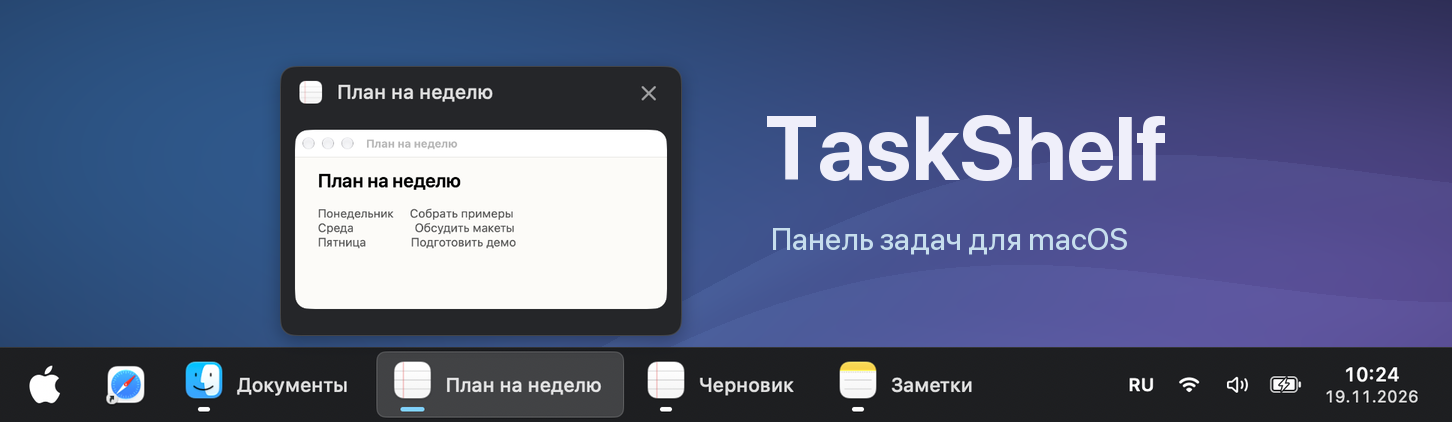
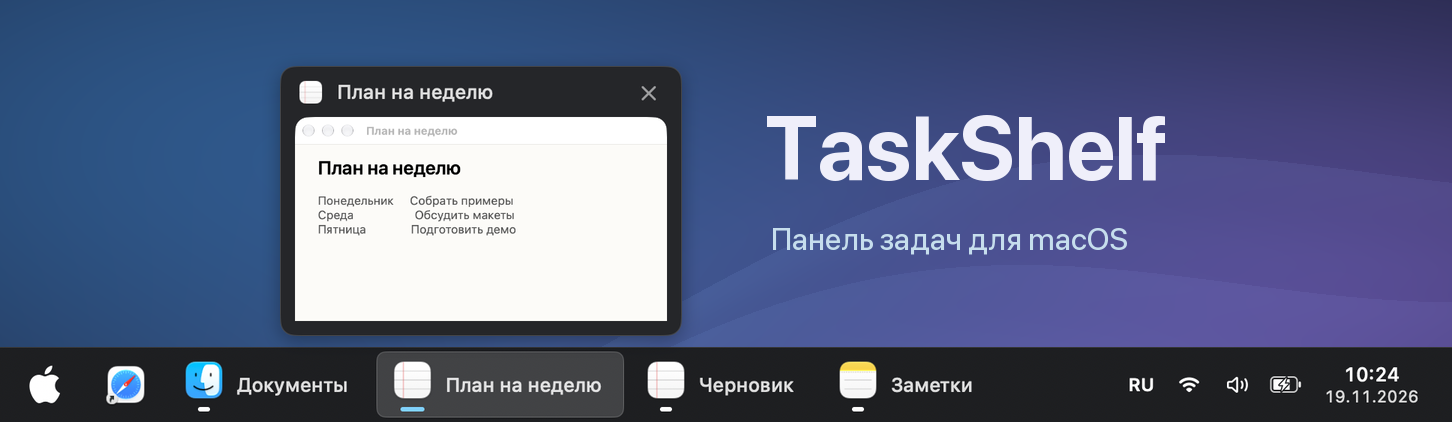
Update the window preview guide and screenshots

Changed region(s): [[0.186, 0.2773, 0.4649, 0.5853], [0.186, 0.7085, 0.4649, 0.7701], [0.8678, 0.8934, 0.8988, 0.9242]]

diff --git a/README.md b/README.md
@@ -17,7 +17,7 @@
 ### Переключить, свернуть, закрыть
 
 1. Нажмите кнопку окна в фоне, чтобы вывести его вперёд. Клик по уже активному окну сворачивает его. Следующий клик возвращает окно.
-2. Задержите курсор над кнопкой, чтобы увидеть миниатюру. Подведите курсор к крестику в её правом верхнем углу и нажмите, чтобы закрыть это окно.
+2. Задержите курсор над кнопкой, чтобы увидеть миниатюру. Снимок заполняет карточку с сохранением пропорций. У высокого окна видна верхняя часть, включая вкладки браузера, а у широкого — центральная часть по горизонтали. Крестик в правом верхнем углу карточки закрывает это окно.
 3. По правому клику доступны **«Закрыть окно»** и, для окон с изменяемым размером, **«Развернуть / вернуть размер»**. Развёрнутое таким способом окно оставляет место для панели.
 
 ![Два документа TextEdit. Клик сворачивает и возвращает первый документ, затем крестик в миниатюре закрывает его. Второй документ остаётся открытым](docs/media/windows.gif)
@@ -114,4 +114,4 @@ open TaskShelf.app
 
 </details>
 
-Скриншоты и GIF собраны из интерфейса TaskShelf 1.63–1.66 с демонстрационными окнами, приложениями и сетями. [Подробная инструкция](Прочти.txt) · [История изменений](https://github.com/plakapenka/TaskShelf/commits/main/)
+Скриншоты и GIF собраны из интерфейса TaskShelf 1.63–1.67 с демонстрационными окнами, приложениями и сетями. [Подробная инструкция](Прочти.txt) · [История изменений](https://github.com/plakapenka/TaskShelf/commits/main/)
